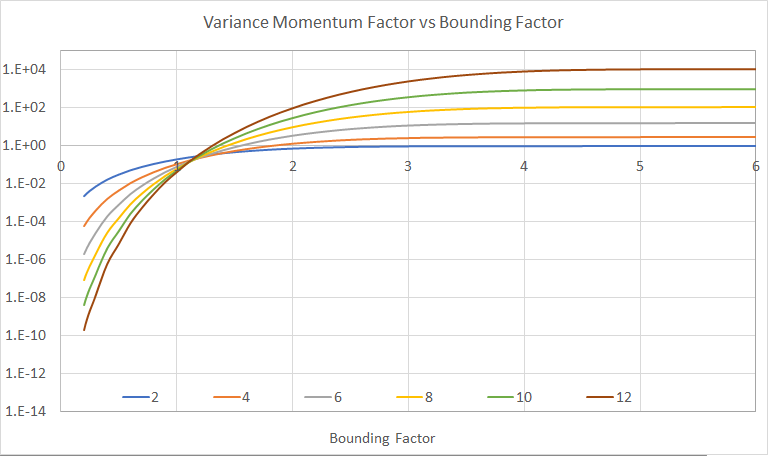
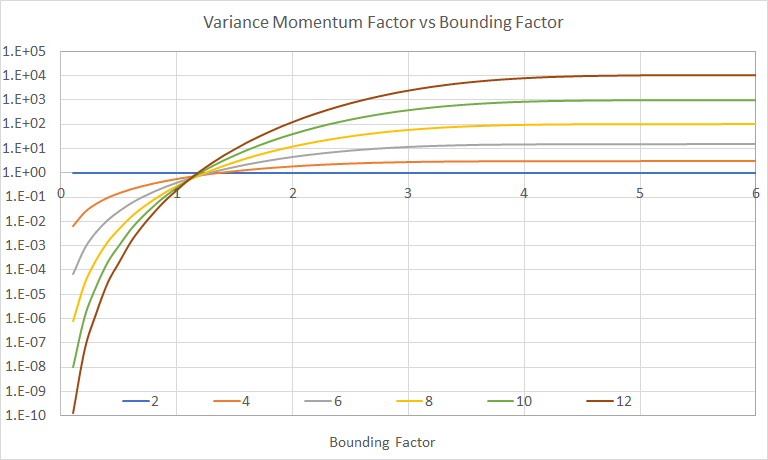
Finalize tex on Taylor expansion

diff --git a/Latex/VarianceArithmetic.tex b/Latex/VarianceArithmetic.tex
@@ -728,17 +728,40 @@ When $f(x)=x^c$:
 
 \fi
 
+\begin{figure}[p]
+\centering
+\includegraphics[height=2.5in]{Cubic_Distribution.png} 
+\captionof{figure}{
+The probability density function for $(x \pm 1)^3$, for different $x$ as shown in the legend. 
+The $y$-axis is scaled as $\sqrt[3]{\tilde{y}}$.
+}
+\label{fig: Cubic_Distribution}
+\end{figure}
+
+\begin{figure}[p]
+\centering
+\includegraphics[height=2.5in]{Cubic_Root_Distribution.png} 
+\captionof{figure}{
+The probability density function for $\sqrt[3]{x \pm 1}$, for different $x$ as shown in the legend. 
+The $y$-axis is scaled as $\tilde{y}^3$.
+Each probability density function $\rho(\tilde{x})$ in solid line is compared with a Normal distribution $\varrho(\tilde{x})$ of the same mode in dash line of the same color.
+The difference between $\rho(\tilde{x})$ and $\varrho(\tilde{x})$ is calculated as $\int_{-\infty}^{+\infty} |\rho(\tilde{x}) - \varrho(\tilde{x})| d \tilde{x}$ which is shown as the percentage value of the legend for the normal distribution.
+}
+\label{fig: Cubic_Root_Distribution}
+\end{figure}
+
+
 Let $\tilde{y} = f(\tilde{x})$ be a strictly monotonic function, so that $\tilde{x} = f^{-1}(\tilde{y})$ exist.
-In Formula \eqref{eqn: function distribution}, the same distribution can be expressed in either $\tilde{x}$ or $\tilde{y}$, which are two different representations of the same underlying random variable \cite{Probability_Statistics}.
-If $\rho(\tilde{x}, x, \delta x)$ is given by Formula \eqref{eqn: central limit theorem}, Formula \eqref{eqn: function distribution} can be simplified as Formula \eqref{eqn: Gaussian function distribution}, in which $N(\tilde{z})$ is the probability density function for normal distribution \cite{Probability_Statistics}.
+In Formula \eqref{eqn: function distribution}, the same distribution can be expressed in either $\tilde{x}$ or $\tilde{y}$, which are two different representations of the same underlying random variable.
+The same underlying distribution can be normalized, as Formula \eqref{eqn: Gaussian function distribution}, in which $N(\tilde{z})$ is the probability density function for normal distribution \cite{Probability_Statistics}.
 \begin{align}
 \label{eqn: function distribution}
 \rho(\tilde{x}, x, \delta x) d\tilde{x} &= \rho(f^{-1}(\tilde{y}), x, \delta x) \frac{d\tilde{x}}{d\tilde{y}} d\tilde{y} 
 = \rho(\tilde{y}, y, \delta y) d\tilde{y}; \\
 \label{eqn: Gaussian function distribution}
 \tilde{z} \equiv \frac{f^{-1}(\tilde{y}) - x}{\delta x}:&\eqspace 
- \tilde{y} = f(x + \tilde{z} \delta x); \eqspace 
- \rho(\tilde{y}, y, \delta y) d \tilde{y} = N(\tilde{z}) d \tilde{z};
+ \tilde{x} = x + \tilde{z} \delta x; \eqspace 
+ \rho(\tilde{x}, x, \delta x) d \tilde{x} = \rho(\tilde{y}, y, \delta y) d \tilde{y} = N(\tilde{z}) d \tilde{z};
 \end{align}
 For example, Formula \eqref{eqn: exp distribution}, \eqref{eqn: log distribution}, and \eqref{eqn: power distribution} give the $\rho(\tilde{y}, y, \delta y)$ for $e^x$, $\ln(x)$, and $x^c$, respectively:
 \begin{align}
@@ -749,6 +772,28 @@ y = \ln(x): &\; \rho(\tilde{y}, y, \delta y) = e^{\tilde{y}} \frac{1}{\delta x} 
 \label{eqn: power distribution}
 y = x^c: &\; \rho(\tilde{y}, y, \delta y) = c \tilde{y}^{\frac{1}{c}-1} \frac{1}{\delta x} N(\frac{\tilde{y}^\frac{1}{c} - x}{\delta x}); 
 \end{align}
+
+Viewed in the $f^{-1}(\tilde{y})$ coordinate, $\rho(\tilde{y}, y, \delta y)$ is Gaussian modulated by $\frac{d\tilde{x}}{d\tilde{y}} = 1/f^{(1)}_x$:
+\begin{itemize}
+
+\item If $y=f(x)$ is a linear transform of $x$, $f^{(1)}_x$ is a constant, and $\rho(\tilde{y}, y, \delta y)$ is known to be Gaussian \cite{Probability_Statistics}.
+
+\item Figure \ref{fig: Cubic_Distribution} shows the probability density function for $(x \pm 1)^3$ according to Formula \eqref{eqn: power distribution}.
+Because $f^{(1)}_x|_{x=0} = 0$, $\rho(\tilde{y}, y, \delta y) = \infty$ at $\tilde{y} = 0$, so that $(0 \pm 1)^3$, $(1 \pm 1)^3$, $(2 \pm 1)^3$ and $(3 \pm 1)^3$ deviates significantly from Gaussian, while $(5 \pm 1)^3$ looks Gaussian but still with an infinitive but narrow peak at $\tilde{y} = 0$.
+
+\item Figure \ref{fig: Cubic_Root_Distribution} shows the probability density function for $\sqrt[3]{x \pm 1}$ according to Formula \eqref{eqn: power distribution}.
+Because $f^{(1)}_x|_{x=0} = \infty$, $\rho(\tilde{y}, y, \delta y) = 0$ at $\tilde{y} = 0$.
+All distributions looks close to Gaussian except $\sqrt[3]{0 \pm 1}$.
+Each probability density function $\rho(\tilde{x})$ in solid line is compared with a Normal distribution $\varrho(\tilde{x})$ of the same mode in dash line of the same color.
+The difference between $\rho(\tilde{x})$ and $\varrho(\tilde{x})$ is calculated as $\int_{-\infty}^{+\infty} |\rho(\tilde{x}) - \varrho(\tilde{x})| d \tilde{x}$ which is shown as the percentage value of the legend for the normal distribution.
+The legend shows quantitatively how the distributions for $\sqrt[3]{x \pm 1}$ become more and more Gaussian with the increasing $x$.
+
+\end{itemize}
+If the underlying result distribution for $f(x)$ needs to be Gaussian, $f^{(1)}_x = \infty$ or $f^{(1)}_x = 0$ serves as separation boundaries.
+
+
+
+
 
 
 \subsection{Analytic Functions}
@@ -810,6 +855,20 @@ P(e^x)^2 &= \sum_{n=1}^{\infty} (\delta x)^{2n} \zeta(2n) \sum_{j=1}^{2n-1} \fra
   + (\frac{31}{360} 5!! - 2 \frac{1}{2} \frac{1}{8}) (\delta x)^6
   + (\frac{127}{20160} 7!! - 2 \frac{1}{2} \frac{1}{48} - (\frac{1}{8})^2) (\delta x)^8 \\
  &= (\delta x)^2 + \frac{3}{2} (\delta x)^4 + \frac{7}{6} (\delta x)^6 + \frac{5}{8} (\delta x)^8
+\end{align*}
+
+\begin{align*}
+\sin(x + \tilde{x}) &= \sin(x) + \sum_{n=0}^{\infty} \cos(x) (-1)^n \frac{\tilde{x}^{2n+1}}{(2n + 1)!} + \sin(x) (-1)^{n+1} \frac{\tilde{x}^{2n+2}}{(2n + 2)!} \\
+ & \simeq \frac{1}{1!} \cos(x) \tilde{x} - \frac{1}{2!} \sin(x) \tilde{x}^2 - \frac{1}{3!} \cos(x) \tilde{x}^3 + \frac{1}{4!} \sin(x) \tilde{x}^4 + \\
+ &\eqspace  \frac{1}{5!} \cos(x) \tilde{x}^5 - \frac{1}{6!} \sin(x) \tilde{x}^6 - \frac{1}{7!} \cos(x) \tilde{x}^7 + \frac{1}{8!} \sin(x) \tilde{x}^8; \\
+\widehat{\sin(x)} &= \sum_{n=1}^{\infty} \sin(x) (-1)^{n} \frac{(\delta x)^{2n}}{(2n)!} \\
+ &\simeq  \sin(x) \left( \frac{1}{2}(\delta x)^2 - \frac{1}{24} (\delta x)^4 + \frac{1}{720} (\delta x)^4 - \frac{1}{40320} (\delta x)^8 \right); \\
+\delta^2 \sin(x) &=  - \widehat{\sin(x)}^2 + \sum_{n=1}^{\infty} (\delta x)^{2n} \zeta(2n) \\
+ &\eqspace \left( \sum_{j=1}^{\frac{n-1}{2}} (-1)^{n+j} \frac{\cos(x)^2}{(2j-1)!(2n-2j+1)!} 
+  + \sum_{j=2}^{\frac{n-1}{2}-1} (-1)^{n+j} \frac{\sin(x)^2}{(2j)!(2n-2j)!} \right)  \\
+ &\simeq \cos(x)^2 (\delta x)^2 + (-2 \frac{3!!}{1!3!} \cos(x)^2 + \frac{3!!}{2!2!}\sin(x)^2 - \frac{1}{4}\sin(x)^2)(\delta x)^4 + \\
+ &\eqspace (2 \frac{5!!}{1!5!} \cos(x)^2 - 2 \frac{5!!}{2!4!}\sin(x)^2 + \frac{5!!}{3!3!} \cos(x)^2 - \frac{1}{24}\sin(x)^2)(\delta x)^6 \\
+ &\simeq \cos(x)^2 (\delta x)^2 + (\frac{1}{2}\sin(x)^2 - \cos(x)^2) (\delta x)^4 - (\frac{1}{3}\sin(x)^2 + \frac{1}{6} \cos(x)^2) (\delta x)^6;
 \end{align*}
 
 \begin{align*}
@@ -884,9 +943,12 @@ In Formula \eqref{eqn: Taylor 1d variance}, the variance $\delta^2 f(x)$ is deco
 The choice of the bounding factor $\sigma$ needs careful scrutiny.
 If $\sigma = \infty$, $M(x, 2n) = (2n - 1)!!$, which may cause Formula \eqref{eqn: calc bias} and \eqref{eqn: Taylor 1d variance} to diverge in most cases.
 For the limited $x$, the behavior of $\lim_{\tilde{x} \rightarrow \infty} f(x + \tilde{x})$ is not of primary concern, so that $\sigma$ should be limited, and $M(x, 2n)$ is calculated by Formula \eqref{eqn: momentum even}, which contains a \emph{variance momentum factor} $\zeta(2n)$ defined in Formula \eqref{eqn: momentum factor}.
+$\zeta(2n)$ is normalized so that $\delta^2 x = (\delta x)^2$ for any choice of $\sigma$.
 \begin{align}
+&\widehat{\zeta(2n)} = \int_{-\sigma}^{+\sigma} \tilde{z}^n N(\tilde{z}) d \tilde{z}
+  = 2 N(\sigma) \sigma^{2n} \sum_{j=1}^{\infty} \sigma^{2j-1} \frac{(2n - 1)!!}{(2n-1 + 2j)!!}; \nonumber \\
 \label{eqn: momentum factor} 
-\zeta(2n) &\equiv2 N(\sigma) \sigma^{2n} \sum_{j=1}^{\infty} \sigma^{2j-1} \frac{(2n - 1)!!}{(2n-1 + 2j)!!} \\
+\zeta(2n) &\equiv \widehat{\zeta(2n)} / \widehat{\zeta(2)}; \\
 \label{eqn: momentum even} 
 M(x, 2n) &= (\delta x)^{2n} \zeta(2n); 
 \end{align}
@@ -943,8 +1005,7 @@ $\epsilon$ & $3 \times 10^{-3}$ & $6 \times 10^{-5}$ & $6 \times 10^{-7}$ & $2 \
 \captionof{table}{The fitted $\lambda$ in $\zeta(2n) \sim \lambda^{2n}$, and the bounding leakage $\epsilon$ as a function of bound factor $\sigma$.}
 \end{table}
 
-
-Formula \eqref{eqn: exp bias} and \eqref{eqn: exp precision} give the result for $e^x$, which always converge:
+Formula \eqref{eqn: exp bias} and \eqref{eqn: exp precision} give the result for $e^x$:
 \begin{align}
 \label{eqn: exp Taylor}
 &\frac{e^{x + \tilde{x}} - e^x}{e^x} = e^{\tilde{x}} - 1 = \sum_{n=1}^{\infty} \frac{\tilde{x}^n}{n!}; \\
@@ -955,6 +1016,22 @@ Formula \eqref{eqn: exp bias} and \eqref{eqn: exp precision} give the result for
 P(e^x)^2 &= \sum_{n=1}^{\infty} \zeta(2n) (\delta x)^{2n} \sum_{j=1}^{2n-1} \frac{1}{j!\;(2n - j)!} - \left( \frac{\widehat{e^x}}{e^x} \right)^2 \\
  &\simeq (\delta x)^2 + \frac{3}{2} (\delta x)^4 + \frac{7}{6} (\delta x)^6 + \frac{5}{8} (\delta x)^8;
 \end{align}
+Formula \eqref{eqn: exp precision} always converges.
+
+Formula \eqref{eqn: sin bias} and \eqref{eqn: sin precision} give the result for $\sin(x)$:
+\begin{align}
+\label{eqn: sin Taylor}
+\sin(x + \tilde{x}) &= \sin(x) + \sum_{n=0}^{\infty} \cos(x) (-1)^n \frac{\tilde{x}^{2n+1}}{(2n + 1)!} + \sin(x) (-1)^{n+1} \frac{\tilde{x}^{2n+2}}{(2n + 2)!}; \\
+\label{eqn: sin bias}
+\widehat{\sin(x)} &= \sin(x) \sum_{n=1}^{\infty} (-1)^{n} \frac{(\delta x)^{2n}}{(2n)!} \\
+ &\simeq  \sin(x) \left( \frac{1}{2}(\delta x)^2 - \frac{1}{24} (\delta x)^4 + \frac{1}{720} (\delta x)^6 \right); \\
+\label{eqn: sin precision}
+\delta^2 \sin(x) &= - \widehat{\sin(x)}^2 + \sum_{n=1}^{\infty} (\delta x)^{2n} \zeta(2n) \nonumber \\
+ &\eqspace \left( \sum_{j=1}^{\frac{n-1}{2}} (-1)^{n+j} \frac{\cos(x)^2}{(2j-1)!(2n-2j+1)!} 
+  + \sum_{j=2}^{\frac{n-1}{2}-1} (-1)^{n+j} \frac{\sin(x)^2}{(2j)!(2n-2j)!} \right)  \\
+ &\simeq \cos(x)^2 (\delta x)^2 + (\frac{1}{2}\sin(x)^2 - \cos(x)^2) (\delta x)^4 - (\frac{1}{3}\sin(x)^2 + \frac{1}{6} \cos(x)^2) (\delta x)^6;
+\end{align}
+Formula \eqref{eqn: sin precision} may diverge if $\delta x$ is too large.
 
 Formula \eqref{eqn: log bias} and \eqref{eqn: log precision} give the result for $\ln(x)$:
 \begin{align}
@@ -994,8 +1071,6 @@ P(\sqrt{x})^2 &\simeq \frac{1}{4} P(x)^2 + \frac{7}{32} P(x)^4 + \frac{75}{128} 
 P(1/x)^2 &\simeq P(x)^2 + 8 P(x)^4 + 69 P(x)^6 + 696 P(x)^8; 
 \end{align}
 
-The variance formula using Taylor expansion shows the nature of the calculation, such as $\delta x \rightarrow P(e^x)$, $P(x) \rightarrow P(x^c)$, and $P(x) \rightarrow \delta \ln(x)$. or the difference speed of variance increases of $x^c$ depending on different $c$.
-
 If Formula \eqref{eqn: Taylor 1d variance} can be expressed as $\sum_{n=1}^{\infty} \upsilon(2n) \zeta(2n) P(x)^{2n}$, such as Formula \eqref{eqn: log precision} and \eqref{eqn: power precision}, and if $|\upsilon(2n)| \sim \lambda^{2n}$, then Formula \eqref{eqn: Taylor 1d variance} converges if $P(x) < 1/(\sigma + \lambda)$.
 $\upsilon(2n)$ depends on $f(x)$, and so does $\lambda$.
 From Formula \eqref{eqn: square root precision} and \eqref{eqn: inversion precision}, $\lambda$ is larger for $1/x$ than for $\sqrt{x}$.
@@ -1003,8 +1078,13 @@ For each function, the maximal $P(x)$ for Formula \eqref{eqn: Taylor 1d variance
 When the applicable precision threshold is larger than $1/\sigma$, the integration range in Formula \eqref{eqn: variance momentum} needs to be reduced to $1/P(x)$. 
 Generally, $1/\sigma$ provides a rough estimation for the applicable precision threshold.
 
+For $x^c$, when $P(x)$ is more than the applicable precision threshold, the underlying uncertainty distribution deviates significantly from Gaussian, as show in Figure \ref{fig: Cubic_Distribution} for $x^3$ and Figure \ref{fig: Cubic_Root_Distribution} for $\sqrt[3]{x}$.
+
+For $(x+a)^c$ in which $a$ is another constant, $P(x) = \delta x / |x - a|$ according to Formula \eqref{eqn: power bias} and \eqref{eqn: power precision}.
+
 Figure \ref{fig: Momentum_Factor_Expansion} shows that when $5 \leq \sigma$, $M(\sigma, 2n) \simeq (2n-1)!!$ when $2n < 20$, which means that if Formula \eqref{eqn: calc bias} and \eqref{eqn: Taylor 1d variance} converge, their results are not sensitive to the actual value of $\sigma$.
 
+The variance formula using Taylor expansion shows the nature of the calculation, such as $\delta x \rightarrow P(e^x)$, $\delta x \rightarrow \delta \sin(x)$, $P(x) \rightarrow P(x^c)$, and $P(x) \rightarrow \delta \ln(x)$, or the difference speed of variance increases of $x^c$ depending on different $c$.
 
 Due to the uncorrelated uncertainty assumption, the Taylor expansion can be applied to multiple inputs, such as Formula \eqref{eqn: Taylor 2d variance}.
 \begin{align}
@@ -1018,55 +1098,6 @@ Due to the uncorrelated uncertainty assumption, the Taylor expansion can be appl
   \sum_{i=1}^{2m-1} \sum_{j=1}^{2n-1} \frac{f^{(i,j)}_{(x,y)}}{i!\;j!}\frac{f^{(2m-i,2n-j)}_{(x,y)}}{(2m-i)!\;(2n-j)!} - f(x,y); 
 \end{align}
 Formula \eqref{eqn: addition and subtraction} and \eqref{eqn: multiplication} are special cases of Formula \eqref{eqn: Taylor 2d variance}.
-
-
-
-\subsection{The Boundary Condition at Zero}
-
-\begin{figure}[p]
-\centering
-\includegraphics[height=2.5in]{Square_Distribution.png} 
-\captionof{figure}{
-The probability density function for $(x \pm 1)^2$, for different $x$ as shown in the legend. 
-The $y$-axis is scaled as $\sqrt{\tilde{y}}$.
-Each probability density function $\rho(\tilde{x})$ in solid line is compared with a Normal distribution $\varrho(\tilde{x})$ of the same mode in dash line of the same color.
-The difference between $\rho(\tilde{x})$ and $\varrho(\tilde{x})$ is $\int_{-\infty}^{+\infty} |\rho(\tilde{x}) - \varrho(\tilde{x})| d \tilde{x}$ which is shown as the percentage value of the legend for the normal distribution.
-}
-\label{fig: Square_Distribution}
-\end{figure}
-
-\begin{figure}[p]
-\centering
-\includegraphics[height=2.5in]{Square_Root_Distribution.png} 
-\captionof{figure}{
-The probability density function for $\sqrt{x \pm 1}$, for different $x$ as shown in the legend. 
-The $y$-axis is scaled as $\tilde{y}^2$.
-Each probability density function $\rho(\tilde{x})$ in solid line is compared with a Normal distribution $\varrho(\tilde{x})$ of the same mode in dash line of the same color.
-The difference between $\rho(\tilde{x})$ and $\varrho(\tilde{x})$ is $\int_{-\infty}^{+\infty} |\rho(\tilde{x}) - \varrho(\tilde{x})| d \tilde{x}$ which is shown as the percentage value of the legend for the normal distribution.
-}
-\label{fig: Square_Root_Distribution}
-\end{figure}
-
-
-When Formula \eqref{eqn: calc bias} and \eqref{eqn: Taylor 1d variance} has $P(x)$ as the input, such as for $\ln(x)$ or $x^c$, both break down at $0 \pm \delta x$, even the function may be defined across 0, such as $x^2$ or $x^3$.
-Above the applicable threshold, the result uncertainty distribution starts to deviate from Gaussian.
-
-Figure \ref{fig: Square_Distribution} shows the probability density function for $(x \pm 1)^2$ according to Formula \eqref{eqn: power distribution}:
-\begin{itemize}
-
-\item $(0 \pm 1)^2$ is a $\chi^2$ distribution \cite{Probability_Statistics}.
-
-\item Visually, $(1 \pm 1)^2$ and $(2 \pm 1)^2$ deviates from Gaussian significantly.
-
-\item Visually, $(3 \pm 1)^2$ starts to look close to Gaussian, but still has a significant peak at $x + \tilde{x} = 0$.
-
-\item $(5 \pm 1)^2$ looks definitely Gaussian.
-
-\end{itemize}
-
-Figure \ref{fig: Square_Root_Distribution} shows the probability density function for $\sqrt{x \pm 1}^2$ according to Formula \eqref{eqn: power distribution}.  
-It shows that $\sqrt{3 \pm 1}^2$ is as close to Gaussian as $(5 \pm 1)^2$.
-Even though $x^2$ is defined across 0, the uncertainty distribution of $(x + \delta x)^2$ deviates from Gaussian more than that of $\sqrt{x + \delta x}$ when $x \rightarrow 0$.
 
 
 
@@ -1101,12 +1132,14 @@ P(\sqrt{x^2}) &\simeq 4 (\frac{1}{4} P(x)^2 + \frac{7}{32} P(x)^4) + 2 (\frac{1}
 The statistical variance can be decomposed as the sum of:
 \begin{itemize}
 \item The \emph{linear variance}, which is the $(\delta x)^2$ term in Formula \eqref{eqn: Taylor 1d variance}. 
+The square root of the linear variance is defined as the \emph{linear deviation}, which is directly observable experimentally.
 
 \item The \emph{calculation cost}, which is the total variance minus the linear variance.  
+The 100\% minus the percentage of the linear deviation to the total deviation is is defined as the \emph{calculation cost percentage}.
 \end{itemize}
 
-The linear deviation is wrong if the independent uncertainty assumption is applied wrongly.
-For example, if the square of an input imprecise value is mistakenly carried out as multiplication of two different input imprecise values, the result linear deviation is only $1/2$-fold according to Formula \eqref{eqn: square precision} and \eqref{eqn: multiplication precision}.
+The linear variance is wrong if the independent uncertainty assumption is applied wrongly.
+For example, if the square of an input imprecise value is mistakenly carried out as multiplication of two different input imprecise values, the result linear variance is only $1/2$-fold according to Formula \eqref{eqn: square precision} and \eqref{eqn: multiplication precision}.
 
 When the inputs obeys the uncorrelated uncertainty assumption, in the intermediate steps, variance arithmetic uses statistics to account for correlation between uncertainties.
 For example, Formula \eqref{eqn: sum dependency} calculate the sum of any two functions, which is derived from Formula \eqref{eqn: Taylor 1d variance}.
@@ -1120,20 +1153,20 @@ Using Formula \eqref{eqn: sum dependency}, Formula \eqref{eqn: product dependenc
 \delta^2 (fg) &= \delta^2 e^{\log(fg)} = \delta^2 e^z |_{e^z = fg,\;\; \delta^2 z = \delta^2 (\log(f) + \log(g))};
 \end{align}
 
-For $f(x) - f(x)$, the linear deviation is $0$ according to Formula \eqref{eqn: sum dependency}.
-The linear deviation becomes $0$ when the calculation results in a constant.
+For $f(x) - f(x)$, the linear variance is $0$ according to Formula \eqref{eqn: sum dependency}.
+The linear variance becomes $0$ when the calculation results in a constant.
 
-After the $f^{-1}(f(x))$ calculation, the linear deviation can be recovered completely, while the calculation cost always increases.
+After the $f^{-1}(f(x))$ calculation, the linear variance can be recovered completely, while the calculation cost always increases.
 
 The increase of the calculation cost depends on the actual steps of calculation, which is the \emph{dependency problem} of variance arithmetic.
-For example, Formula \eqref{eqn: square root} and \eqref{eqn: root square} shows that the calculation cost of $\sqrt{x}^2$ is more than double of the calculation cost of $\sqrt{x^2}$.
+For example, Formula \eqref{eqn: square root} and \eqref{eqn: root square} shows that the calculation cost of $\sqrt{x}^2$ is more than quadruple of the calculation cost of $\sqrt{x^2}$.
 \begin{align}
 \label{eqn: square root}
 P(\sqrt{x}^2)^2 &\simeq P(x)^2 + 4 P(x)^4 + 41 P(x)^6; \\
 \label{eqn: root square}
 P(\sqrt{x^2})^2 &\simeq P(x)^2 + P(x)^4 + \frac{41}{16} P(x)^6;
 \end{align}
-The dependency problem also exists in interval arithmetic, and to a much larger extend, because variance arithmetic has no dependency problem due to different analytic expression.
+The dependency problem also exists in interval arithmetic, and to a much larger extend, because using Taylor series, variance arithmetic can avoid the dependency problem due to different analytic expression.
 
 The calculation costs is the unwanted part of the calculation which should be minimized by optimizing the calculation steps.
 

diff --git a/Java/src/Type/Momentum.java b/Java/src/Type/Momentum.java
@@ -59,9 +59,9 @@ public class Momentum {
     /*
      * Calculate momentum factor
      */
-    public static final int maxS = 512;
+    public static final int maxS = 128;
     public static final int dividS = 16;
-    public static final int maxN = 200;    // maxFactorial = 171
+    public static final int maxN = 200;
     private static final double ssFactor[][] = new double[maxS][maxN];
     static {
         final double factorS = 1.0 / dividS;
@@ -96,11 +96,14 @@ public class Momentum {
         final int lower = (int) Math.floor(s * dividS);
         final int upper = (int) Math.ceil(s * dividS);
         if (lower == upper) {
-            return ssFactor[lower][n/2 - 1];
+            return ssFactor[lower][n/2 - 1] / ssFactor[lower][0];
         } else if (upper < maxS) {
-            return ssFactor[lower][n/2 - 1] + (ssFactor[upper][n/2 - 1] - ssFactor[lower][n/2 - 1]) * (s * dividS - lower);
+            return ssFactor[lower][n/2 - 1] / ssFactor[lower][0] + 
+                (ssFactor[upper][n/2 - 1] / ssFactor[upper][0] - 
+                 ssFactor[lower][n/2 - 1] / ssFactor[lower][0]) * 
+                (s * dividS - lower);
         } else {
-            return ssFactor[lower][n/2 - 1];
+            return ssFactor[lower][n/2 - 1] / ssFactor[lower][0];
         }
     }
 }

diff --git a/Java/src/Type/TestMomentum.java b/Java/src/Type/TestMomentum.java
@@ -110,10 +110,11 @@ public class TestMomentum {
                 fw.write(String.format("%f\t", s));
             }
             fw.write("\n");
+            final double maxS = (double) Momentum.maxS / Momentum.dividS;
             for (int i = 2; i <= Momentum.maxN; i += 2) {
-                fw.write(String.format("%d\t", i));
-                for (double s = 0; s < 16; s += 0.1) {
-                    fw.write(String.format("%e\t", Momentum.factor(i*2, s)));
+                fw.write(String.format("%d\t%e\t", i, Momentum.doubleFactorial(i - 1)));
+                for (double s = 0.1; s < maxS; s += 0.1) {
+                    fw.write(String.format("%e\t", Momentum.factor(i, s)));
                 }
                 fw.write("\n");
             }
